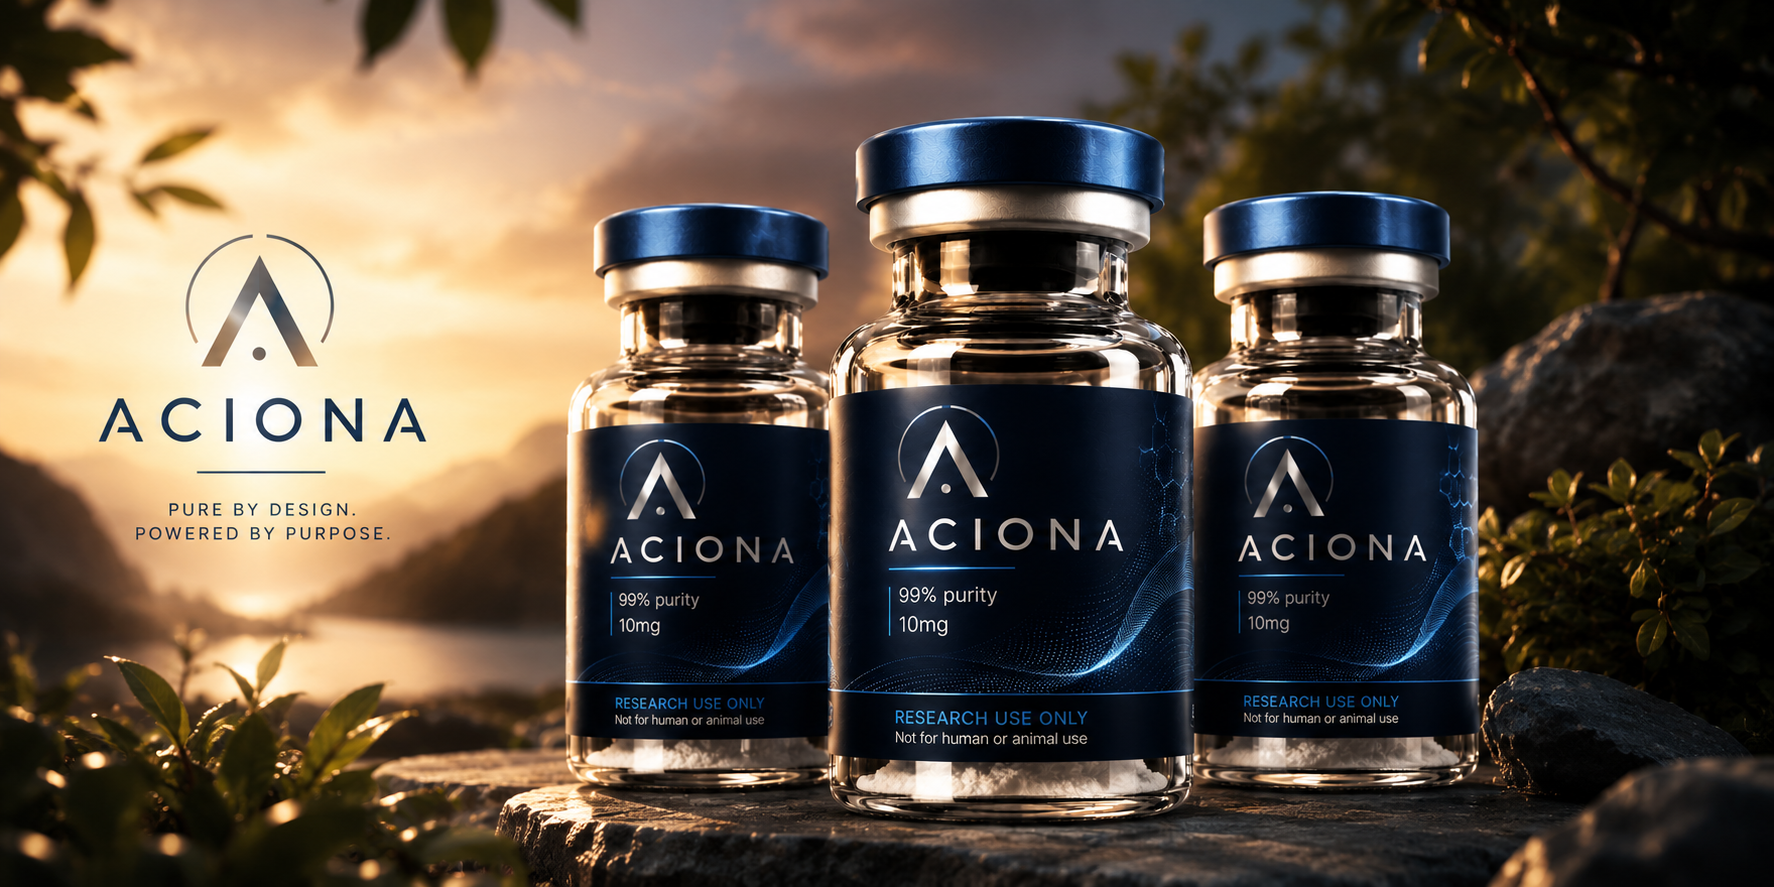
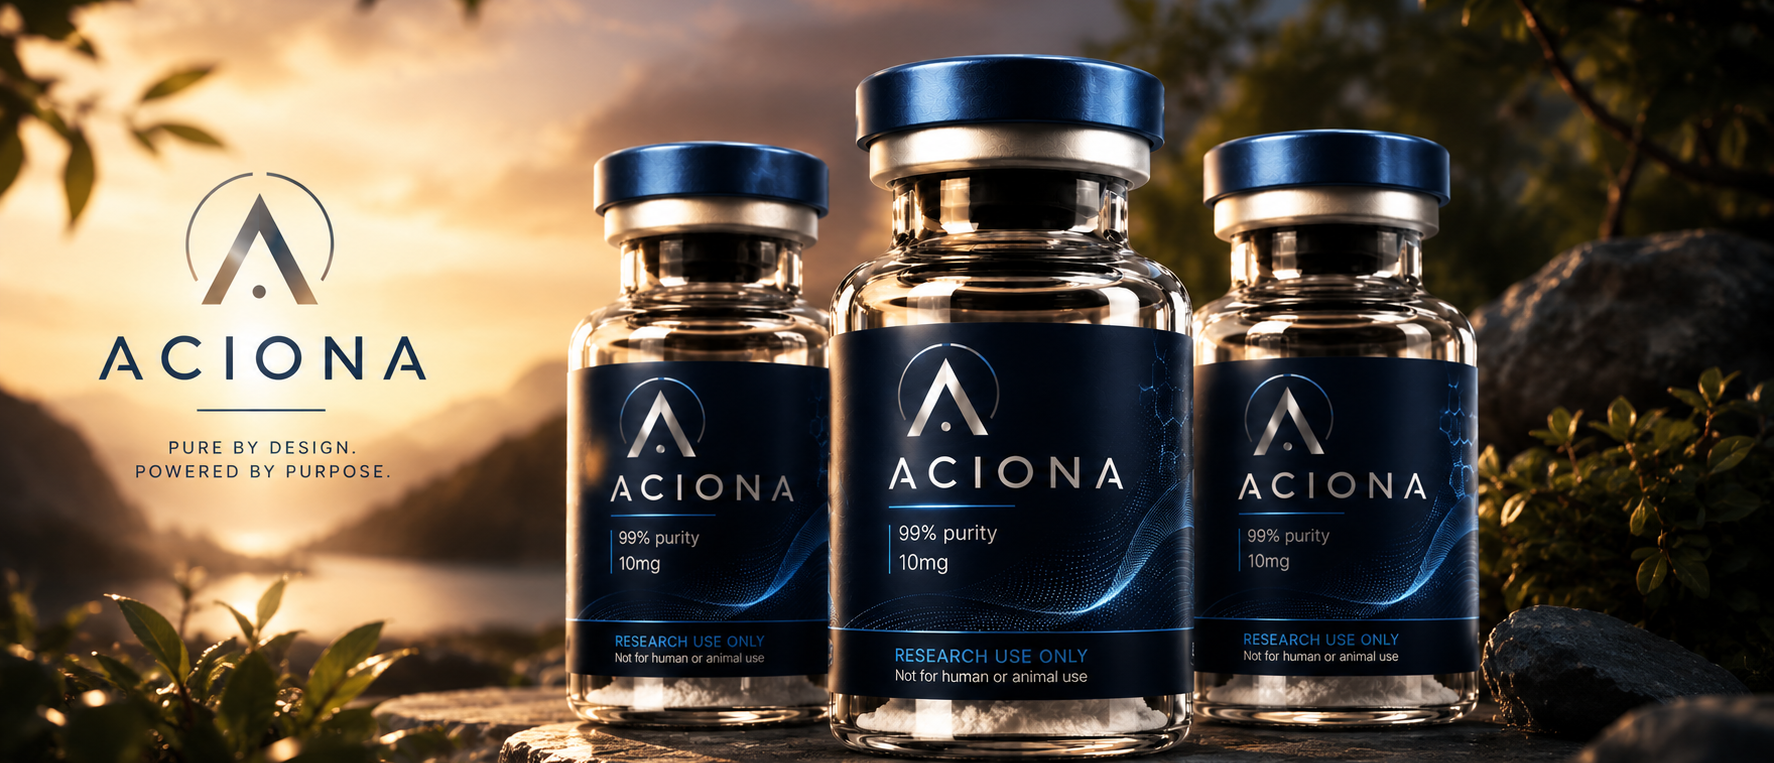
Crop hero image top/bottom evenly, keep vials fully in frame
Trims ~7% off the top (excess sky) and bottom (excess foreground) of
Heroimage#2.png symmetrically, so all three vials stay fully visible
while the banner reads shorter/more panoramic. Updates .hero-banner's
aspect-ratio to match the new 1774x763 dimensions exactly (kept in sync
per the existing "never crop" approach documented in
docs/ARCHITECTURE_DECISIONS.md).

Claude-Session: https://claude.ai/code/session_01RH8yxFQzWvs7dNWs5kF6Wr

diff --git a/styles.css b/styles.css
@@ -92,13 +92,14 @@ a.brand:hover{text-decoration:none; opacity:.85;}
 
 /* ---------- Hero banner (full-width photo + bottom content card) ---------- */
 .hero-banner{
-  /* Matches the source photo's real pixel ratio (1774x887) exactly, so
+  /* Matches the source photo's real pixel ratio (1774x763, cropped from
+     the original 1774x887 on 2026-07-11 to trim excess sky/foreground
+     while keeping the vials fully in frame) exactly, so
      background-size:cover never has to crop anything -- the banner's
      shape always matches the image's shape. Trade-off: on very wide
-     screens this makes the banner noticeably taller (a 1920px-wide
-     screen gets a ~960px-tall banner) since that's what "never crop"
-     requires at that aspect ratio. */
-  aspect-ratio:1774/887;
+     screens this makes the banner noticeably taller than a plain fixed
+     height would, since that's what "never crop" requires at this ratio. */
+  aspect-ratio:1774/763;
   min-height:420px;
   padding:64px 0;
   display:flex;